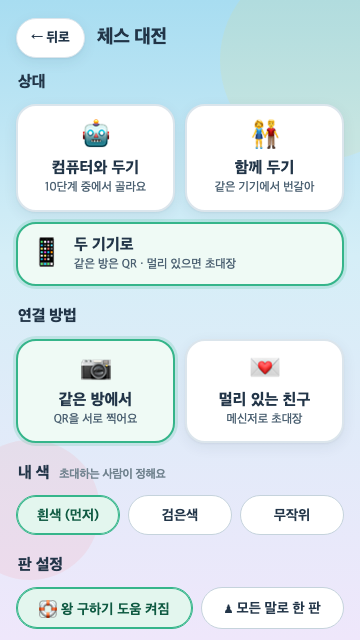
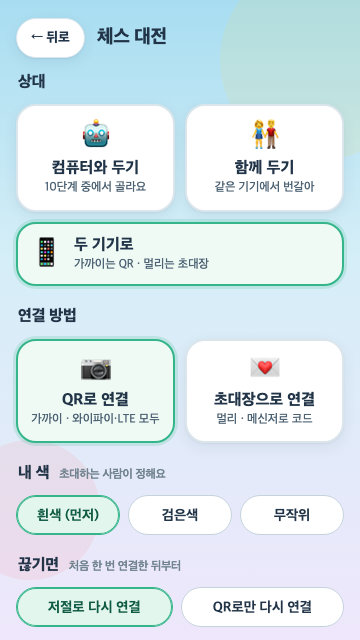
docs: 와이파이·LTE 차이, 저절로 다시 연결(공개 릴레이), 휴대폰 진단 방법, Cloudflare로 옮기는 순서 기록과 스크린숏

diff --git a/docs/TWO_DEVICE_PLAY.md b/docs/TWO_DEVICE_PLAY.md
@@ -1,73 +1,113 @@
-# 두 기기 대전: 같은 방(QR) · 멀리서(초대장)
+# 두 기기 대전: QR로 연결(와이파이·LTE) · 초대장으로 연결 · 저절로 다시 연결
 
-작성: 2026-11-08 · 빌드 `2026.11.08.4` · 검증: 단위 170/170, 브라우저 17종 · 상태: **구현 완료 · 자동 검증 완료(한 컴퓨터 안의 브라우저 두 개) · 실제 휴대폰 두 대로는 확인하지 않음**
+작성: 2026-11-08 · 빌드 `2026.11.08.5` · 검증: 단위 175/175, 브라우저 17종(두 기기 9장면, 진짜 공개 릴레이로도 통과) · 상태: **구현 완료 · 자동 검증 완료(한 컴퓨터 안의 브라우저 두 개) · 실제 휴대폰 두 대로는 와이파이만 확인(사용자), LTE·저절로 다시 연결은 휴대폰 확인 전**
 
-사용자 요청(2026-11-08): "같은방, 멀리서 실시간 두가지 방법으로 구현해줘. 먼저 체스 대전에 적용해줘. 잠깐 인터넷이 끊기더라도 재연결 등의 폴백 로직등도 구현해줘." 바로 앞에서 "서버 없이 두 기기에서 대전을 구현할 수 있어?"라고 물었고, 서버 없는 방식의 한계(멀리서 실시간은 통신사 망 등에서 실패할 수 있음)를 설명한 뒤 받은 요청이다.
+요청 기록(2026-11-08)
+1. "같은방, 멀리서 실시간 두가지 방법으로 구현해줘. 먼저 체스 대전에 적용해줘. 잠깐 인터넷이 끊기더라도 재연결 등의 폴백 로직등도 구현해줘." → 빌드 `2026.11.08.4`.
+2. 휴대폰 확인 결과: "와이파이 대국은 잘 동작했어. 그러나 LTE 대국은 매끄롭지 않고 아직 접속에 성공한적없어. LTE도 QR로 할 수 있는거 아니야?"
+3. "가능하다면 와이파이, LTE 모두 같은 방식으로 연결하도록 해주고, 접속이 해지되거나 잠시 나가더라도 별도의 QR 인증 없이 다시 연결될 수 있는 기능들도 만들어줘." → 만남 장소를 공개 서버(Nostr 릴레이)로 할지 작은 자체 서버(Cloudflare)로 할지 설명했고, "공개서버로 진행해줘"(나중에 Cloudflare로 바꿔도 사용성 유지 조건) → 빌드 `2026.11.08.5`.
 
 ## 1. 쓰는 법
 
-대전 → 상대 **📱 두 기기로** → 연결 방법 · 내 색(흰색 먼저 · 검은색 · 무작위) · 판 설정(왕 구하기 도움 · 짧은 판).
+대전 → 상대 **📱 두 기기로** → 연결 방법 · 내 색(흰색 먼저 · 검은색 · 무작위) · 끊기면(저절로 다시 연결 · QR로만 다시 연결) · 판 설정.
 
 | 방법 | 초대하는 사람 | 초대받는 사람 |
 |---|---|---|
-| **같은 방** | `📷 내 QR 보여 주기` → 친구 화면에 QR이 나오면 `📷 친구 QR 찍기` | `📥 친구 QR 찍기` → 내 화면에 나온 QR을 친구가 찍음 |
-| **멀리서** | `💌 초대장 만들기`(보호자 확인) → 메신저로 보냄 → 친구가 보낸 **답장 코드**를 붙여 넣음 | 링크를 누르거나 `📥 받은 코드 넣기`(보호자 확인) → 답장을 메신저로 보냄 |
+| **📷 QR로 연결** (가까이 · 와이파이·LTE 모두) | `📷 내 QR 보여 주기`(카메라를 먼저 한 번 켰다 끔) → 친구 화면에 QR이 나오면 `📷 친구 QR 찍기` | `📥 친구 QR 찍기` → 내 화면에 나온 QR을 친구가 찍음 |
+| **💌 초대장으로 연결** (멀리 · 메신저) | `💌 초대장 만들기`(보호자 확인) → 메신저로 보냄 → 친구가 보낸 **답장 코드**를 붙여 넣음 | 링크를 누르거나 `📥 받은 코드 넣기`(보호자 확인) → 답장을 메신저로 보냄 |
 
-- 같은 방은 두 기기가 같은 와이파이에 있어야 한다. 와이파이가 없으면 한 휴대폰의 핫스팟에 다른 휴대폰을 연결한다(인터넷이 없어도 된다).
-- 카메라가 없으면 같은 방에서도 '코드로 보내기 / 받은 코드 넣기'를 쓸 수 있다.
-- 대국 화면: 위 줄은 친구(아이콘·이름·잡은 말), 아래 줄은 나. 검은색이면 판을 돌려 내 말이 아래에 온다. 오른쪽 위 점은 연결 상태(🟢 연결됨 · 🟡 자리 비움/약함 · 🔴 끊김).
-- 할 수 있는 것: 내 차례에만 두기, 💡 한 수 보기(내 차례), 🤝 비기기 제안(둘 다 동의해야), 🏳 기권, 끝난 뒤 🔁 한 판 더(색을 바꿔 새 대국), 표정 4개(👍 😮 🙂 😅). **글 채팅은 없다.**
-- 하지 않는 것: 되돌리기, 한 수 시간 제한(두 기기 사이 시간 차이 때문).
+- QR은 연결 정보를 옮기는 방법일 뿐이고, 망과는 상관없다. 같은 와이파이, 한 휴대폰의 핫스팟, 휴대폰 데이터(LTE) 어디서든 같은 순서로 한다. 실제로 이어지는 길은 §2에서 설명한다.
+- 휴대폰 데이터에서 안 붙으면 한 휴대폰의 **핫스팟**에 다른 휴대폰을 연결한다. 두 기기 사이 데이터는 핫스팟 안에서만 오가서 요금이 거의 들지 않는다.
+- 카메라가 없으면 '코드로 보내기 / 받은 코드 넣기'를 쓸 수 있다.
+- **한 번 연결되면 그 뒤로는 QR이 필요 없다.** 끊기거나, 앱을 껐다 켜거나, 와이파이와 LTE가 바뀌어도 두 화면이 켜져 있으면 저절로 다시 이어진다(§3).
+- 대국 화면: 위 줄은 친구, 아래 줄은 나. 검은색이면 판을 돌려 내 말이 아래에 온다. 오른쪽 위 점: 🟢 연결됨 · 🟡 자리 비움/약함/**찾는 중** · 🔴 끊김. 아래 `연결 정보`를 펼치면 지금 쓰는 길(같은 와이파이 · 인터넷 직접 IPv4/IPv6)과 이 기기가 가진 길을 보여 준다.
+- 할 수 있는 것: 내 차례에만 두기, 💡 한 수 보기, 🤝 비기기 제안, 🏳 기권, 🔁 한 판 더(색 바꿈), 표정 4개. **글 채팅은 없다.** 되돌리기·한 수 시간 제한은 없다.
 
-## 2. 서버 없이 잇는 방법
+## 2. 서버 없이 잇는 방법과, 와이파이·LTE의 차이
 
-- 두 기기를 **WebRTC 데이터 채널**로 직접 잇는다. 연결에 필요한 정보(ICE 자격, DTLS 지문, 후보 주소)를 사람이 옮긴다: 같은 방은 QR을 서로 한 번씩 찍고, 멀리서는 메신저로 두 번 주고받는다.
-- 연결 코드: `CK1` + 종류(`o` 초대 · `a` 답장 · `m` 편지) + `.` + base64url 본문. SDP 전체가 아니라 바뀌는 값만 담아 **약 200자**다(QR 버전 약 10). 받는 쪽은 정해진 틀로 SDP를 다시 만든다. 형식 검사에 맞지 않는 코드는 거절한다(`js/net-peer.js`).
-- 멀리서는 자기 공인 주소를 알아내려고 **공개 STUN 서버**(Google `stun.l.google.com`, Cloudflare `stun.cloudflare.com`)에 묻는다. 이 서버들은 기기의 공인 IP를 보지만 대국 내용은 지나가지 않는다. 대국 내용은 어떤 서버에도 저장되지 않는다.
-- 중계(TURN) 서버가 없으므로 **양쪽이 모두 대칭형 NAT(일부 통신사 망·회사·학교망)이면 멀리서 실시간 연결이 안 될 수 있다.** 그때는 §3의 편지로 이어 둔다.
+- 두 기기를 **WebRTC 데이터 채널**로 직접 잇는다. 처음 연결 정보(ICE 자격, DTLS 지문, 후보 주소)는 사람이 옮긴다(QR 또는 메신저). 연결 코드는 `CK1` + 종류(`o` 초대 · `a` 답장 · `m` 편지) + `.` + base64url 본문으로, 바뀌는 값만 담아 200~300자다(실측: 카메라 허락 전 231자 · QR 61칸, 허락 뒤 267자 · 65칸).
+- **와이파이가 된 이유**: 두 휴대폰이 같은 공유기 안에 있어 집 안 주소끼리 바로 닿는다(QR 덕분이 아니다).
+- **LTE가 어려운 이유**: 휴대폰마다 통신사 안쪽 주소를 받고, 바깥으로는 통신사 장비(CGNAT)가 주소를 바꿔 준다. 이어질 수 있는 길은 셋이다.
+  1. **IPv6**: 통신사가 IPv6를 주면 주소를 바꾸지 않으므로 서로 직접 닿는다. 휴대폰 데이터에서 가장 잘 되는 길이다.
+  2. **인터넷 IPv4(공인 주소)**: 공개 STUN(Google·Cloudflare)으로 알아낸 바깥 주소. 통신사 장비가 상대마다 바깥 포트를 바꾸는 형(대칭형 NAT)이면 막힌다.
+  3. **중계(TURN)**: 둘 다 막히면 중간 서버가 대신 전해 줘야 한다. **지금은 중계 서버가 없다**(Cloudflare 단계에서 추가 — `docs/SERVER_FEATURES_PLAN.md` §3).
+- 이번에 바꾼 것(빌드 `.5`):
+  - **카메라 먼저 켜기**: 브라우저는 카메라를 허락받은 화면에만 기기의 실제 주소(핫스팟 주소·IPv6 포함)를 후보로 알려 준다. 그 밖에는 이름(mDNS)만 알려 주는데, 이 이름은 같은 와이파이 밖에서는 쓸 수 없다. QR로 연결할 때 초대하는 쪽도 연결 정보를 만들기 전에 카메라를 한 번 켰다 끈다(답장 QR을 찍을 때 어차피 쓴다). 거절해도 연결은 계속한다.
+  - **후보 모으기**: 공인 주소가 처음 오면 1.5초 더 기다려(최대 5초) 두 번째 STUN 서버의 답과 IPv6 주소까지 담는다. 예전에는 0.5초 뒤 멈춰 IPv6가 빠질 수 있었다.
+  - **후보 고르기**: 8개 안에서 같은 와이파이 길 · 인터넷 IPv4 · 인터넷 IPv6 · 중계를 돌아가며 하나씩 고른다. 집 안 후보가 많아도 IPv6 길이 빠지지 않는다.
+  - **진단**: 연결 화면의 `연결 길 살펴보기`와 대국 화면의 `연결 정보`에서 이 기기·친구 기기의 길(와이파이 안 ✓/✗ · 인터넷 IPv4 ✓/✗(바뀌는 형) · IPv6 ✓/✗)과 한 줄 판정을 보여 준다. 바뀌는 형은 같은 소켓이 STUN 서버 둘에게서 서로 다른 바깥 포트를 받았을 때로 판단한다.
+  - **실패 바로 알림**: 초대한 쪽에서 길 찾기가 실패(ICE `failed`)하면 기다리지 않고 "두 기기 사이의 직접 길을 찾지 못했어요" + 진단 + 핫스팟 안내를 보여 준다.
 
-## 3. 끊겼을 때 (폴백 단계)
+## 3. 저절로 다시 연결 (만남 장소 · 공개 Nostr 릴레이)
+
+연결이 한 번 되면 두 기기가 **짝 열쇠**(32바이트 무작위)를 나눠 갖는다. 처음 초대한 쪽이 만들어 데이터 채널(DTLS 암호화)로 보낸다. 서로 다르면 처음 초대한 쪽 열쇠를 쓰고, 한 판 더도 같은 열쇠를 쓴다. 끊기면 이 열쇠로 암호화한 메시지를 **만남 장소**에 올려 서로 찾고, 새 연결 정보를 주고받는다. QR을 다시 찍지 않는다.
+
+- **만남 장소**: 누구나 쓰는 공개 Nostr 릴레이 6곳에 동시에 붙는다(`js/net-meet.js`의 `NET_RELAYS`): `relay.primal.net` · `offchain.pub` · `relay.snort.social` · `nostr-pub.wellorder.net` · `nostr.oxtr.dev` · `nostr.data.haus`.
+  - 2026-11-08 실측 16곳 중, 두 번 모두 0.2~0.8초 안에 메시지를 받아 전한 곳만 골랐다. `relay.damus.io`·`nos.lol`·`nostr.mom`은 응답이 들쭉날쭉했고, `relay.nos.social`은 이 종류를 막았다.
+  - 하나라도 붙어 있으면 된다. 끊긴 곳은 2 → 5 → 15 → 30초 간격으로 다시 붙는다.
+- **메시지**: Nostr '잠깐 메시지'(종류 `21761`, 20000~29999 범위는 릴레이가 저장하지 않고 그 순간 듣는 쪽에만 전한다). 내용은 짝 열쇠에서 만든 AES-GCM 열쇠로 봉하고, 주제 태그는 짝 열쇠의 해시다. 서명 열쇠(secp256k1, BIP-340)는 화면을 열 때마다 새로 만드는 일회용이다.
+- **순서**: 내 연결이 끊기면 '노크'를 보낸다(처음 1분은 3초, 10분까지 8초, 그 뒤 30초 간격). 처음 초대했던 쪽이 노크를 받으면 새 초대 코드를 보낸다. 20초 안에 또 노크가 오면 같은 코드를 다시 보내고, 진행 중인 연결은 버리지 않는다. 받았던 쪽은 그 코드로 답장 코드를 보낸다. 연결이 열리면 hello로 수 목록을 맞춘다(끊긴 동안 둔 수도 전해진다). 연결된 지 10초 안에 온 노크는 늦게 도착한 것으로 보고 무시한다.
+- **연결돼 있는 동안에도 듣는다**: 친구가 앱을 껐다 켜면 내 쪽은 한동안 끊긴 줄 모른다. 친구의 노크로 바로 알아채 새 연결을 만든다.
+- **듣는 때**: 짝 열쇠가 있는 대국이 대국 화면에 열려 있거나, 끝나지 않았고 하루 안에 둔 대국일 때. 그리고 앱이 화면에 보일 때만 듣는다(내리면 만남 장소에서 나가고, 다시 보이면 곧바로 찾는다). 새 대국 연결을 만드는 중에는 쉰다.
+- **끄기**: 설정 `끊기면 → QR로만 다시 연결`. 끄면 만남 장소에 붙지 않는다.
+- **안 될 때**: 만남 장소에 8초 넘게 닿지 않으면 "만남 장소(공개 중계)에 닿지 않아요"를 보이고 `다시 연결`(QR·코드)을 안내한다. 만남 장소는 서로 만나게만 해 줄 뿐이라, 망이 직접 길을 막으면(§2) 여전히 안 붙는다.
+- **나중에 Cloudflare로 바꾸기**: 짝 열쇠·메시지 형식·화면은 그대로 두고 `netMeetTransport` 한 곳만 우리 서버 전송기(`{publish, openCount, close}`)로 바꾼다. 바꾸는 몇 주 동안은 두 장소를 함께 듣는다. 사용자가 다시 짝을 맺을 필요는 없다.
+
+## 4. 끊겼을 때 (폴백 단계)
 
 | 단계 | 상황 | 동작 |
 |---|---|---|
-| 1. 자동 복구 | 6초 동안 아무 신호가 없거나 연결이 '끊어짐'으로 바뀜 | 🟡 **약함 · 다시 잇는 중**. 2초마다 살아 있다는 신호를 보낸다. 같은 주소로 인터넷이 돌아오면 브라우저가 연결을 되살리고, 되살아나면 **수 목록을 서로 비교해 맞춘다**. 약한 동안에도 내 수를 둘 수 있다. |
-| 2. 끊김 | 약함이 20초 더 이어지거나, 연결이 닫힘 (통로가 살아 있으면 끊김 중에도 신호를 계속 보낸다) | 🔴 **끊김**. `🔄 다시 연결`·`📥 받은 코드 넣기`(멀리서는 `💌 편지로 보내기`도). 끊긴 동안에도 내 차례면 둘 수 있다. 원래 연결이 늦게라도 살아나면 다시 연결 화면을 닫고 이어 간다. |
-| 3. 다시 연결 | 한 사람이 `새 QR/새 초대장` | 같은 대국 번호로 새 연결을 만든다. 연결되면 수 목록을 맞춘다(끊긴 동안 둔 수도 전해진다). 같은 방 ↔ 멀리서 방법을 바꿔 다시 이을 수도 있다. 이어 두기는 보호자 확인을 다시 묻지 않는다. |
-| 4. 새로고침·앱 종료 | 연결 정보가 사라짐 | 대국 기록은 기기에 남는다. 대전 → `📡 ○○와 두던 대국 이어 두기`(홈에도 내 차례일 때 카드) → 3단계로 다시 연결. |
-| 5. 편지 | 실시간 연결이 끝내 안 됨 | `💌 편지로 보내기`: 지금까지의 **수 목록 전체**를 담은 코드를 메신저로 보낸다. 받은 쪽은 `받은 코드 넣기`나 링크로 연다. 같은 편지를 두 번 넣어도 판은 그대로다. 나중에 실시간 연결이 되면 저절로 맞춰진다. |
+| 1. 같은 연결 복구 | 6초 동안 신호가 없거나 연결이 '끊어짐' | 🟡 **약함 · 다시 잇는 중**. 같은 주소로 인터넷이 돌아오면 같은 연결이 되살아나고 수 목록을 맞춘다. 약한 동안에도 둘 수 있다. |
+| 2. 저절로 다시 연결 | 약함이 20초 더 이어지거나 연결이 닫힘(앱 종료·새로고침·와이파이↔LTE 전환 포함) | 🟡 **찾는 중** · "끊겼어요 · 친구를 찾는 중". 만남 장소로 새 연결을 만든다(§3). 끊긴 동안에도 내 차례면 둘 수 있다. 홈·설정 화면에 있어도 진행한다. |
+| 3. 다시 연결(손으로) | 저절로가 안 되거나 꺼 둠 | `🔄 다시 연결` → 새 QR / 새 초대장, 방법 바꾸기도 가능. 그사이 저절로 먼저 이어지면 그 화면을 닫고 대국으로 돌아간다. |
+| 4. 새로고침·앱 종료 | 연결 정보가 사라짐 | 대국 기록은 기기에 남는다. 앱을 다시 열면 바로 2단계가 시작된다. 대전 → `📡 ○○와 두던 대국 이어 두기`. |
+| 5. 편지 | 실시간 연결이 끝내 안 됨 | `💌 편지로 보내기`: 지금까지의 **수 목록 전체**를 담은 코드를 메신저로 보낸다. 나중에 실시간 연결이 되면 저절로 맞춰진다. |
 
-- **수 목록 맞추기 규칙**: 한쪽 목록이 다른 쪽의 앞부분이면 긴 쪽을 쓴다. 서로 다르면(정상적으로는 생기지 않음) **처음 초대한 쪽** 목록을 쓰고 안내한다. 받은 목록은 처음부터 다시 둬 보고 규칙에 맞을 때만 쓴다.
-- **수 하나하나**: 보낸 수에는 순번이 있다. 받은 쪽은 순번·차례·규칙을 확인해 두고 '받았어요'를 돌려준다. 겹친 수는 다시 받았다고만 하고, 순번이 빠졌거나 다르면 맞추기를 부탁한다. 보낸 수가 아직 확인되지 않았으면 "내 수를 친구에게 보내는 중"으로 보인다.
-- **앱을 내리면**: "잠깐 자리 비움"을 알린다. 친구 쪽은 3분까지 끊김으로 세지 않는다. 다시 보이면 맞추기 인사를 보낸다.
-- **링크로 새 탭이 열리면**: 같은 브라우저에 체스 화면이 이미 열려 있으면 그 화면에 코드를 넘기고 새 탭에는 "열려 있던 화면으로 돌아가요"를 보여 준다(답장은 초대장을 만든 화면에서만 쓸 수 있다).
+- **수 목록 맞추기 규칙**: 한쪽 목록이 다른 쪽의 앞부분이면 긴 쪽을 쓴다. 서로 다르면 **처음 초대한 쪽** 목록을 쓰고 안내한다. 받은 목록은 처음부터 다시 둬 보고 규칙에 맞을 때만 쓴다.
+- **앱을 내리면**: "잠깐 자리 비움"을 알린다. 친구 쪽은 3분까지 끊김으로 세지 않는다. 그동안 연결이 죽었으면, 돌아왔을 때 노크로 바로 다시 잇는다.
+- **링크로 새 탭이 열리면**: 같은 브라우저에 체스 화면이 이미 열려 있으면 그 화면에 코드를 넘긴다.
 
-## 4. 안전 · 아동 보호
+## 5. 휴대폰에서 확인할 것 (진단 읽는 법)
 
-- 처음 연결하는 **멀리서 새 대국**은 초대·받기 모두 보호자 확인(곱셈)을 거친다. 같은 방과 이어 두기는 묻지 않는다.
-- 초대장·답장 화면에 "이 기기의 인터넷 주소가 들어 있어요. 아는 친구에게만 보내요"를 보여 준다.
-- 상대에게 보내는 것: 프로필 이름(최대 12자로 잘라 보임)과 아이콘, 수 목록, 기권·비기기·한 판 더·표정. 받은 이름은 HTML로 넣지 않고 글자로만 보이며, 아이콘은 앱의 정해진 8개만 받는다.
-- 받은 모든 수는 내 기기의 규칙 엔진(`js/chess.js`)으로 다시 확인한다. 메시지 크기는 16KB, 수 목록은 600수까지만 받는다. 표정은 4초에 3개까지만 보인다.
+1. 같은 와이파이에서 QR로 연결 → 대국 화면 `연결 정보`의 '지금 길'이 **같은 와이파이**인지.
+2. 두 휴대폰 모두 와이파이를 끄고 LTE로 QR 연결. 연결 화면 아래 `연결 길 살펴보기`를 펼쳐 두 기기의 'IPv6 ✓/✗', '인터넷 IPv4 ✓(바뀌는 형)' 여부와 판정 한 줄을 기록한다.
+   - 둘 다 IPv6 ✓ → 이어질 가능성이 높다.
+   - 한쪽이라도 바뀌는 형이고 IPv6가 없으면 → 중계 서버 없이는 어렵다. 핫스팟으로 하고, 이 결과가 Cloudflare(TURN) 단계로 넘어갈 근거가 된다.
+3. 연결된 상태에서 한쪽 앱을 완전히 닫았다 다시 연다 → QR 없이 '🟢 저절로 다시 연결됐어요'가 나오는지(보통 몇 초).
+4. 대국 중 한쪽 와이파이를 끈다(LTE로 바뀜) → '찾는 중' 뒤에 다시 이어지는지. LTE 길이 막힌 망이면 안 이어질 수 있다. 그 경우 2번 진단과 함께 알려 준다.
 
-## 5. 저장
+## 6. 안전 · 아동 보호
 
-- `net_game_v1`(프로필별): `{v:1, gid, method, inviter, color, small, moves[], end, acked, peer:{name,icon}}`. 놀이 저장(`sessions`·`last_session`)과 섞이지 않는다. 그래서 컴퓨터 대전을 새로 시작해도 두 기기 대국은 그대로다(두 기기 대국은 한 번에 하나).
-- 프로필 파일에는 그대로 들어가고, 불러올 때 수 목록을 다시 둬 봐서 검사한다. `play_settings`에 `view:'net'`, `netMethod`, `netColor`가 더해졌다(상대 모드 값은 예전처럼 `ai`·`friend`만).
+- 처음 연결하는 **초대장 새 대국**은 초대·받기 모두 보호자 확인(곱셈)을 거친다. QR 연결과 이어 두기, 저절로 다시 연결은 묻지 않는다.
+- 상대에게 보내는 것: 프로필 이름(12자로 잘라 보임)과 아이콘, 수 목록, 기권·비기기·한 판 더·표정, 짝 열쇠(데이터 채널 안에서만). 받은 이름은 글자로만 보이고, 아이콘은 정해진 8개만 받는다. 받은 모든 수는 내 기기의 규칙 엔진으로 다시 확인한다.
+- **공개 서버가 보는 것**
+  - STUN(Google·Cloudflare): 기기의 공인 IP.
+  - Nostr 릴레이: 접속한 기기의 IP, 접속 시각, 암호문, 주제 해시, 일회용 서명 열쇠. 연결 정보·이름·수는 볼 수 없다.
+  - 대국 내용은 어떤 서버에도 저장되지 않는다.
+- 아는 친구에게만 초대장을 보내라는 안내는 그대로다. 짝 열쇠를 모르는 사람은 만남 장소의 메시지를 읽을 수도, 꾸며 보낼 수도 없다(AES-GCM 인증).
 
-## 6. 한계와 출시 전 할 일
+## 7. 저장
 
-- **실제 휴대폰 두 대로 확인하지 않았다.** 자동 검사는 한 컴퓨터 안 브라우저 두 개라, 공유기·통신사·카메라 초점·화면 밝기 차이는 검증되지 않았다.
-- 멀리서 실시간: 대칭형 NAT, 답장이 아주 늦은 경우(몇 분 뒤), 와이파이 ↔ LTE 전환은 실패할 수 있다(→ 다시 연결 또는 편지). 확실하게 하려면 작은 신호·중계 서버(TURN)가 필요하다 — `docs/SERVER_FEATURES_PLAN.md` §3.
-- 손님용 와이파이 등 기기끼리 통신을 막은 공유기에서는 같은 방 연결도 안 된다(핫스팟 안내).
-- 카카오톡에서 초대 링크를 누르면 카카오톡 안의 브라우저에서 열릴 수 있다. 그러면 아이의 프로필·별과 따로 저장되므로, 체스 앱(설치한 앱이나 평소 쓰는 브라우저)에서 `받은 코드 넣기`로 여는 것이 좋다(공유 문구에도 안내).
-- 둘이 동시에 '한 판 더'를 누르면 대국 번호가 작은 쪽 제안으로 정해진다.
-- 아이폰은 앱을 내리면 연결이 금방 끊길 수 있다(→ 돌아와서 다시 연결).
-- 앱으로 감쌀 때: 웹뷰 카메라 권한(Android `WebChromeClient.onPermissionRequest`+`CAMERA` 권한, iOS `NSCameraUsageDescription`), 링크(`#net=`)를 앱으로 여는 딥 링크, 공유(`navigator.share`) 동작, 개인정보처리방침에 STUN·두 기기 직접 연결 설명.
-- 외부 코드: QR 만들기 `js/vendor/qrcode.js`(qrcode-generator 1.4.4, MIT, Kazuhiko Arase), QR 읽기 `js/vendor/jsQR.js`(jsQR 1.4.0, Apache-2.0, 전문 `js/vendor/LICENSE-jsQR.txt`). jsQR은 브라우저 QR 인식이 없을 때만 불러온다(오프라인 대비 미리 저장).
+- `net_game_v1`(프로필별): `{v:1, gid, method, inviter, color, small, moves[], end, acked, peer:{name,icon}, pair?}`. `pair`는 짝 열쇠(base64url 43자). 놀이 저장과 섞이지 않는다. 프로필 파일에 그대로 들어가고, 불러올 때 수 목록과 짝 열쇠 형식을 검사한다.
+- `play_settings`: `view:'net'`, `netMethod`(`room`=QR · `remote`=초대장), `netColor`, `netAuto`(기본 켬). 코드 안의 이름 `room`은 예전 '같은 방'이지만 지금은 망과 상관없는 QR 연결을 뜻한다.
 
-## 7. 코드와 검사
+## 8. 한계와 출시 전 할 일
 
-- `js/net-peer.js`: 연결 코드 만들기·읽기, SDP 줄이기·다시 만들기, `NetLink`(연결 하나: 상태 · 신호 · 약함/끊김 판단 · 검사용 `debugMute`), QR 그리기, 카메라로 QR 찍기.
-- `js/app-net.js`: 대국 기록, 메시지 처리(인사·수·받음·기권·비기기·한 판 더·표정), 수 목록 맞추기, 대국 화면(`renderPlayNet`), 연결 화면(`screen-net`), 다시 연결, 편지, 대전 설정의 '두 기기로', 링크 처리.
-- 기존 코드에 더한 것: `js/app-play.js`(모드 `net`: 내 차례 판단 `playMineToMove`, 판 돌리기, 결과 버튼), `js/app-session.js`(두 기기 대국은 놀이 저장 대신 대국 기록), `js/app-core.js`(돌린 판의 잡기 애니메이션), `js/app-profiles.js`(가져오기 검사), `js/app-home.js`(내 차례 카드), `css/style.css`("두 기기 대전" 묶음).
-- 단위 `tests/net.test.cjs`(10): 코드 줄이기·다시 만들기(Chrome·Firefox 모양), 고친 코드 거절, 편지, 수 목록 맞추기, 메시지 처리(겹침·빠짐·차례 아님), 다시 연결 인사·이름 검사, 기권·비기기·한 판 더, 편지 적용, 저장 범위·프로필 파일, QR 그림을 jsQR로 다시 읽기.
-- 브라우저 `tests/net-browser.cjs`: 브라우저 두 개(360×640 · 1280×900), **가짜 카메라 영상에 상대 QR을 비춰 실제로 찍기**(한쪽은 브라우저 QR 인식, 한쪽은 jsQR), 탭으로 두기, 표정, 잠깐 끊김(9초) 뒤 자동 복구와 그동안 둔 수 전달, 오래 끊김(30초, 양쪽 모두 '끊김') 뒤에도 인터넷이 돌아오면 저절로 복구, 연결 닫힘 → 끊긴 동안 둔 수 → QR 다시 연결, 새로고침 → 코드로 다시 연결, 비기기·한 판 더(색 바꿈·판 돌림)·기권, 멀리서 새 대국(보호자 확인) → 편지 주고받기 · 링크로 연 새 탭의 코드 넘기기 · 잘못된 코드 안내. 연결 상태가 바뀌어도 판 위치 그대로, 주요 버튼 44px 이상, 가로 넘침 없음. 스크린숏: `docs/product-review/two-device/`.
+- **LTE 직접 연결은 통신사 망에 달려 있다.** 둘 다 IPv6가 없고 한쪽이라도 바뀌는 형이면 안 된다. 확실하게 하려면 중계(TURN)가 필요하다 → Cloudflare 단계.
+- **공개 릴레이는 남이 무료로 운영한다.** 닫히거나 규칙이 바뀔 수 있어 6곳을 함께 쓰고, 모두 안 되면 QR로 돌아간다. 가족·친구 규모에 맞고, 큰 규모의 상용 서비스에는 우리 서버로 바꾼다.
+- 저절로 다시 연결은 **두 화면이 모두 켜져 있을 때만** 된다. 아이폰은 앱을 내리면 연결과 만남 장소가 금방 끊긴다. 돌아오면 다시 찾는다.
+- 손님용 와이파이처럼 기기끼리 통신을 막은 공유기에서는 와이파이 연결이 안 된다(→ 핫스팟).
+- 카카오톡에서 초대 링크를 누르면 카카오톡 안의 브라우저에서 열려 프로필이 따로 저장될 수 있다(→ 체스 앱에서 `받은 코드 넣기`).
+- 앱으로 감쌀 때: 웹뷰 카메라 권한, `#net=` 딥 링크, 공유 시트, 개인정보처리방침에 공개 STUN과 **공개 Nostr 릴레이**(보는 정보·끄는 법)를 적는다.
+- 외부 코드: QR 만들기 `js/vendor/qrcode.js`(qrcode-generator 1.4.4, MIT), QR 읽기 `js/vendor/jsQR.js`(jsQR 1.4.0, Apache-2.0). secp256k1·BIP-340 서명은 직접 구현했다(외부 코드 없음, BIP-340 시험값과 Node secp256k1로 검사).
+
+## 9. 코드와 검사
+
+- `js/net-peer.js`: 연결 코드, SDP 줄이기·다시 만들기, 후보 고르기(`netPickCandidates`), 진단(`netDiagSdp`·`netDiagCands`), `NetLink`(상태·신호·약함/끊김, 길 찾기 실패 `iceFailed`, 지금 길 `route()`), 카메라 먼저 켜기(`netCameraWarm`), QR 그리기·찍기.
+- `js/net-meet.js`(새 파일): 만남 장소. secp256k1 BIP-340 서명, Nostr 메시지, 짝 열쇠 → 주제·AES-GCM 열쇠, 릴레이 여러 곳 붙기(`NetRelayPool`), 봉한 메시지 주고받기(`NetMeet`), 전송기 교체 지점 `netMeetTransport`.
+- `js/app-net.js`: 대국 기록·짝 열쇠, 메시지, 수 목록 맞추기, 저절로 다시 연결(`netAutoUpdate`·`netAutoTick`·노크/초대/답장 처리), 대국 화면(찾는 중 표시·연결 정보), 연결 화면(진단·실패 안내), 다시 연결, 편지, 설정.
+- 단위 `tests/net.test.cjs`(15): 기존 10개 + BIP-340 시험값·Nostr 메시지 번호, 봉하기·열기(다른 열쇠·고친 글 거절), 후보 고르기·진단(바뀌는 형 판단), 짝 열쇠 주고받기·검사, **두 기기 흉내로 노크 → 초대 → 답장 → 연결**(다른 짝 열쇠의 기기는 읽지 못함, 늦은 노크 무시, 끄면 떠남).
+- 브라우저 `tests/net-browser.cjs`(9장면): 가짜 카메라로 QR 연결·짝 열쇠, 탭으로 두기·표정, 9초 끊김 복구, 30초 끊김 뒤 같은 연결 복구, **연결 닫힘 → QR 없이 저절로 다시 연결(끊긴 동안 둔 수 전달)**, **새로고침 + 만남 장소 연결 끊김 → 홈 화면에서 저절로 다시 연결**, 저절로 끔 → QR·코드 다시 연결, 비기기·한 판 더·기권, 초대장 새 대국 → 편지.
+  - 만남 장소로는 `tests/fake-relay.cjs`(가짜 Nostr 릴레이)를 쓴다. 이 릴레이는 앱과 따로 만든 코드로 메시지 번호와 BIP-340 서명을 검사한다.
+  - `CHESS_NET_REAL_RELAYS=1`이면 진짜 공개 릴레이로 돌린다(2026-11-08 통과).
+- 스크린숏: `docs/product-review/two-device/`.

diff --git a/README.md b/README.md
@@ -13,7 +13,7 @@ npm run dev
 ## 현재 경험
 
 - **홈:** `체스 대전` / `기사의 여행 · 나이트 투어` / `체스 처음 배우기`로 한 번에 들어갑니다. 다른 놀이는 `놀이터 · 전체 놀이`와 `모험 지도`에서 그대로 제공합니다.
-- **대전:** [컴퓨터 10단계](docs/AI_DIFFICULTY.md)·같은 기기에서 함께 두기(마주 보기·한 수 시간)·[두 기기로](docs/TWO_DEVICE_PLAY.md)(같은 방은 QR을 서로 찍고, 멀리 있으면 메신저로 초대장·답장. 서버 없이 기기끼리 직접 연결, 끊기면 자동 복구·다시 연결·편지로 이어 두기)·말이 적은 짧은 판. 끝난 판의 설정 그대로 `같은 상대와 다시 두기`, 컴퓨터를 이기면 고를 수 있는 `다음 단계 도전`. [배운 말로 첫 대전](docs/STARTER_BATTLES.md) 4판(룩·비숍·나이트·퀸)과 대국 중 `말 움직임 보기`. 난이도 `!` 설명 표, 체크·캐슬링·승패의 명확한 알림, 체크 공격선과 실제 대응 방법, 힌트·시범·되돌리기, 캐슬링·앙파상·승격 선택.
+- **대전:** [컴퓨터 10단계](docs/AI_DIFFICULTY.md)·같은 기기에서 함께 두기(마주 보기·한 수 시간)·[두 기기로](docs/TWO_DEVICE_PLAY.md)(가까이는 QR을 서로 찍고(와이파이·LTE 모두), 멀리 있으면 메신저로 초대장·답장. 기기끼리 직접 연결하고, 한 번 연결되면 끊겨도 공개 중계(Nostr)로 QR 없이 저절로 다시 연결, 안 되면 다시 연결·편지로 이어 두기)·말이 적은 짧은 판. 끝난 판의 설정 그대로 `같은 상대와 다시 두기`, 컴퓨터를 이기면 고를 수 있는 `다음 단계 도전`. [배운 말로 첫 대전](docs/STARTER_BATTLES.md) 4판(룩·비숍·나이트·퀸)과 대국 중 `말 움직임 보기`. 난이도 `!` 설명 표, 체크·캐슬링·승패의 명확한 알림, 체크 공격선과 실제 대응 방법, 힌트·시범·되돌리기, 캐슬링·앙파상·승격 선택.
 - **기사의 여행 · 나이트 투어:** 산책·10칸 탐험·5/6/7 크기 완주, 갈림길 알림·전체 경로/다음 한 수 힌트, 무작위 시작, 가족과 번갈아 두기. 무료 [규칙 문제 10판](docs/KNIGHT_RULE_PUZZLES.md): 일부 칸이 없는 판 5판, 순서 표식 5판.
 - **체스 수업:** 무료 5단원 15개 주제 × 15판 = 225판(내 말 지키기 3 · 말의 가치 2 · 체크와 체크메이트 5 · 전술 4 · 폰 승격 1). 수업마다 첫걸음 → 쉬움 → 보통 → 어려움 → 도전 순서로 어려워지고(판 고르기로 아무 판이나 바로 시작 가능), 판이 끝나면 성공·실패를 크게 알려줘요. 판마다 목표 한 줄을 보고 직접 한 수를 두면, 상대의 실제 응수와 이유를 한 문장으로 알려줘요. 힌트는 같은 판에서 두 번 해본 뒤 열리고 정답 대신 살펴볼 곳만 보여 줘요(힌트로 성공한 판은 💡, 힌트 없이 다시 풀면 ✓). `∞ 무한 연습`은 같은 단계 규칙으로 컴퓨터가 매번 새 판을 만들어요(판 번호로 같은 판 재현). 수업별 이어하기, 수업 배치로 대전. [v2 재설계](docs/lessons/LESSON_REDESIGN_V2.md) · [v4 확장](docs/lessons/LESSON_EXPANSION_V4.md) · [구현 기록](docs/lessons/IMPLEMENTATION_PROGRESS.md)
 - **체스 처음 배우기(모험):** 4×4·5×5 룩 입문부터 여섯 말의 이동·잡기·안전 학습. 실패 설명, 한 수 도움, 되돌리기.

diff --git a/docs/DEVELOPMENT_HANDOFF.md b/docs/DEVELOPMENT_HANDOFF.md
@@ -310,3 +310,15 @@ A-1 홈 직접 진입 (`js/app-home.js`, `js/app-session.js`, `js/app-play.js`, 
 - 배포: `dca12cc`까지 푸시, [Pages 실행](https://github.com/akushig/chess-kids/actions/runs/42469272086) 성공, 공개 사이트 `2026.11.08.4` 확인. 공개 주소로 `net-browser`(8장면)·`browser-final`(오프라인 포함)·`product-completion-browser`를 다시 돌려 통과.
 - 주의: `scripts/fast-load.cjs`는 앱 코드를 Node 실제 전역에서 돌린다. Node 20에도 `BroadcastChannel`이 있으므로 이런 핸들은 불러올 때 만들지 말고 화면 준비(DOMContentLoaded) 뒤에 연다(미리 열면 `course.test.cjs`가 끝나지 않는다).
 
+### 17-1. 와이파이·LTE 같은 QR 방식 · 저절로 다시 연결 · 2026-11-08 (빌드 `2026.11.08.5`)
+
+요청: 휴대폰 확인 결과 "와이파이 대국은 잘 동작했어. 그러나 LTE 대국은 … 아직 접속에 성공한적없어. LTE도 QR로 할 수 있는거 아니야?" → "가능하다면 와이파이, LTE 모두 같은 방식으로 연결하도록 해주고, 접속이 해지되거나 잠시 나가더라도 별도의 QR 인증 없이 다시 연결될 수 있는 기능들도 만들어줘." → 만남 장소 선택지를 설명한 뒤 "공개서버로 진행해줘".
+
+상태 구분: **구현 완료 · 자동 검증 완료(가짜 릴레이 + 진짜 공개 릴레이) · LTE와 저절로 다시 연결은 실제 휴대폰 확인 전 · 우리 서버 없음(공개 STUN + 공개 Nostr 릴레이)**.
+
+- QR 연결은 망과 상관없는 방식으로 정리했다(설정 이름 '📷 QR로 연결 · 가까이 · 와이파이·LTE 모두', 코드 안 이름은 그대로 `room`). 카메라를 먼저 켜서 실제 주소(IPv6·핫스팟)를 받고, 후보 모으기 시간(첫 공인 주소 뒤 1.5초, 최대 5초)과 고르기(종류별로 돌아가며)를 바꿨다. 연결 진단과 길 찾기 실패 안내를 더했다.
+- 저절로 다시 연결: 처음 연결에서 짝 열쇠를 나누고, 끊기면 공개 Nostr 릴레이 6곳에 AES-GCM으로 봉한 노크·초대·답장을 올려 다시 잇는다. 새 파일 `js/net-meet.js`(secp256k1 BIP-340 서명 직접 구현). 설정 `끊기면`(기본: 저절로)으로 끌 수 있다.
+- 저장: `net_game_v1.pair`, `play_settings.netAuto` 추가(가져오기 검사 포함). 형식 번호는 그대로다.
+- 검증: 단위 175/175(새 5개), 브라우저 17종(`net-browser` 9장면, 가짜 릴레이 `tests/fake-relay.cjs`가 서명을 따로 검사). `CHESS_NET_REAL_RELAYS=1`로 진짜 공개 릴레이에서도 9장면 통과.
+- 남은 일: 사용자가 휴대폰 두 대로 LTE 진단 결과(IPv6·바뀌는 형)를 보내 주면, 중계(TURN)가 필요한지 판단한다. 필요하면 Cloudflare 단계(`docs/SERVER_FEATURES_PLAN.md` 맨 위 메모).
+

diff --git a/docs/DEFERRED_RELEASE_READINESS.md b/docs/DEFERRED_RELEASE_READINESS.md
@@ -5,7 +5,7 @@
 - [ ] 스킨·캐릭터·명칭·스토어 이미지의 사용 권한 증빙 확인 또는 공개 자산 교체 방침 결정. (2026-11-08: 헬로카봇·티니핑·배달의민족 스킨은 앱 판(`window.ChessKidsStore`가 있을 때)에서 숨기도록 했다. 출시 전 파일 자체를 빼거나 권리를 확인한다.)
 - [ ] 인앱 결제: `docs/PREMIUM_COURSE.md` §5의 `window.ChessKidsStore` 다리 구현, 스토어 상품 5개 등록(course_all·course_stage1~3·coach_full)과 가격, 구매 복원 확인, 보호자 확인(곱셈) 화면 실기기 확인.
 - [ ] 대상 연령/Families/IARC, 개인정보처리방침·문의처·Data safety, 실제 외부 통신/SDK 검토.
-- [ ] 두 기기 대전(`docs/TWO_DEVICE_PLAY.md` §6): 웹뷰 카메라 권한(Android·iOS), `#net=` 링크 딥 링크, 공유 시트, 개인정보처리방침에 공개 STUN(Google·Cloudflare)과 기기 간 직접 연결·주고받는 정보(이름·아이콘·수) 설명, 외부 코드 고지(qrcode-generator MIT, jsQR Apache-2.0), 실제 휴대폰 두 대로 같은 방·멀리서(와이파이/LTE) 확인.
+- [ ] 두 기기 대전(`docs/TWO_DEVICE_PLAY.md` §6): 웹뷰 카메라 권한(Android·iOS), `#net=` 링크 딥 링크, 공유 시트, 개인정보처리방침에 공개 STUN(Google·Cloudflare)과 기기 간 직접 연결·주고받는 정보(이름·아이콘·수) 설명, **저절로 다시 연결에 쓰는 공개 Nostr 릴레이 6곳**(릴레이가 보는 것: 기기 IP·접속 시각·암호문, 끄는 법: 설정 '끊기면 → QR로만 다시 연결'), 릴레이 목록이 계속 살아 있는지 출시 전 다시 실측(`CHESS_NET_REAL_RELAYS=1 node tests/net-browser.cjs`), 외부 코드 고지(qrcode-generator MIT, jsQR Apache-2.0), 실제 휴대폰 두 대로 QR 연결(와이파이·LTE)·저절로 다시 연결·초대장 확인(2026-11-08 와이파이 QR은 사용자 확인 완료, LTE는 실패 보고 → 빌드 `.5`에서 개선·진단 추가).
 - [ ] 개발자 계정 요건, 서명·패키지 ID·AAB·대상 API·비공개 테스트·스토어 자료.
 - [ ] Capacitor 포함형 번들 또는 TWA 선택. TWA라면 도메인 루트 Digital Asset Links 권한 확인.
 - [ ] 네이티브 Preferences/기록 이동, 시스템 뒤로가기, 생명주기와 AI·타이머·승격·안내 복원.

diff --git a/docs/SERVER_FEATURES_PLAN.md b/docs/SERVER_FEATURES_PLAN.md
@@ -3,6 +3,15 @@
 작성: 2026-11-08 · 상태: **설계만, 구현 안 함**
 
 > 같은 날 추가: 서버 없이 두 기기를 직접 잇는 **두 기기 대전(같은 방 QR · 멀리서 초대장 · 편지)**은 구현했다 → [두 기기 대전](TWO_DEVICE_PLAY.md). 아래 §1 드라이브 동기화와 §3의 친구 코드·중계 서버는 여전히 설계만이다. §3의 작은 서버는 이제 '멀리서 실시간이 막히는 망(대칭형 NAT)을 위한 신호·중계(TURN)'로 쓰임새가 좁혀졌다.
+>
+> 같은 날 더 추가(빌드 `2026.11.08.5`): **저절로 다시 연결**을 공개 Nostr 릴레이(만남 장소)로 구현했다 → [두 기기 대전 §3](TWO_DEVICE_PLAY.md). 사용자 결정: "공개서버로 진행해줘", 나중에 Cloudflare로 바꿔도 사용성은 유지한다.
+> Cloudflare로 옮길 때의 순서:
+> 1. 서버 함수 + 실시간 방(Durable Object) 하나를 둔다. 방 이름은 짝 열쇠의 주제 해시로 하고, 앱이 봉한 메시지를 그대로 중계한다(서버는 내용을 못 읽는다).
+> 2. 앱은 `js/net-meet.js`의 `netMeetTransport`만 새 전송기로 바꾼다. 몇 주 동안은 공개 릴레이와 함께 듣는다.
+> 3. 같은 서버 함수에서 Cloudflare TURN 일회용 자격을 발급해 `netIceServers()`에 더한다. 그러면 LTE 대칭형 망도 이어진다. TURN 발급 열쇠는 Cloudflare 비밀 설정에만 둔다.
+> 4. 개인정보처리방침의 공개 릴레이 설명을 바꾼다.
+>
+> 무료 범위는 계정 단위다(서버 함수 하루 10만 요청, 실시간 방 저장 5GB, TURN·SFU 매달 1,000GB 공유).
 
 사용자 말(2026-11-08): "서버비용이 최소로 드는 방향으로 일부 서버 자원을 활용할 수는 있어. 서버 자원을 활용할 경우 구글 드라이브에 프로필 동기화, 친구추가, 온라인 대국 등을 만들어볼 수 있을 것 같아."
 
